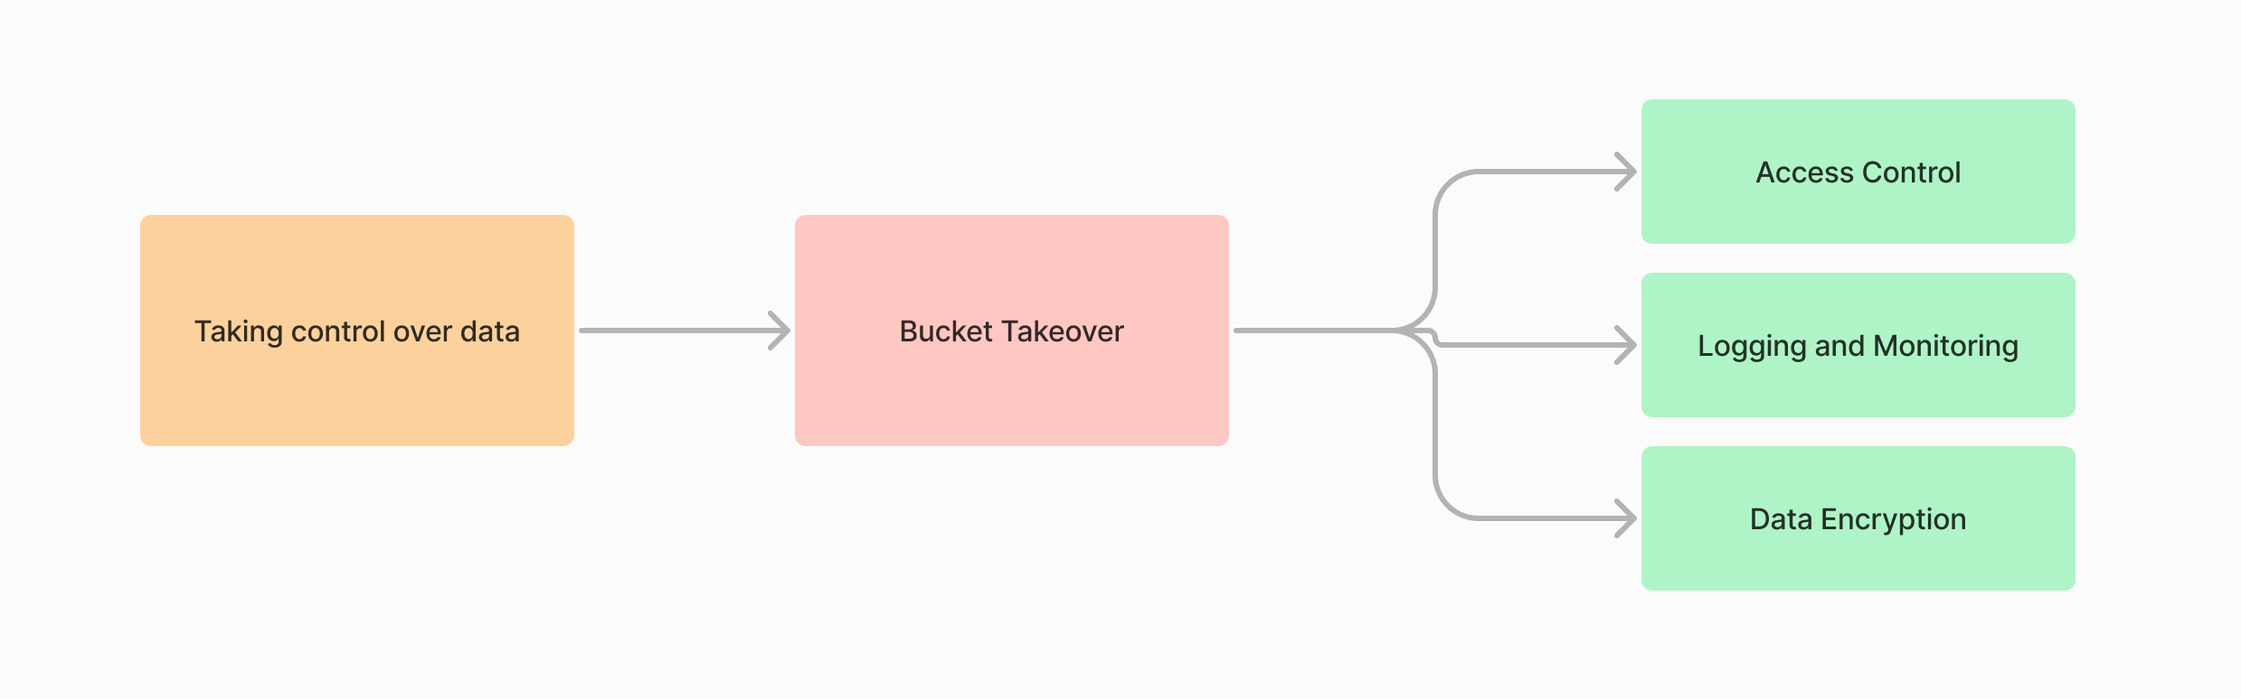
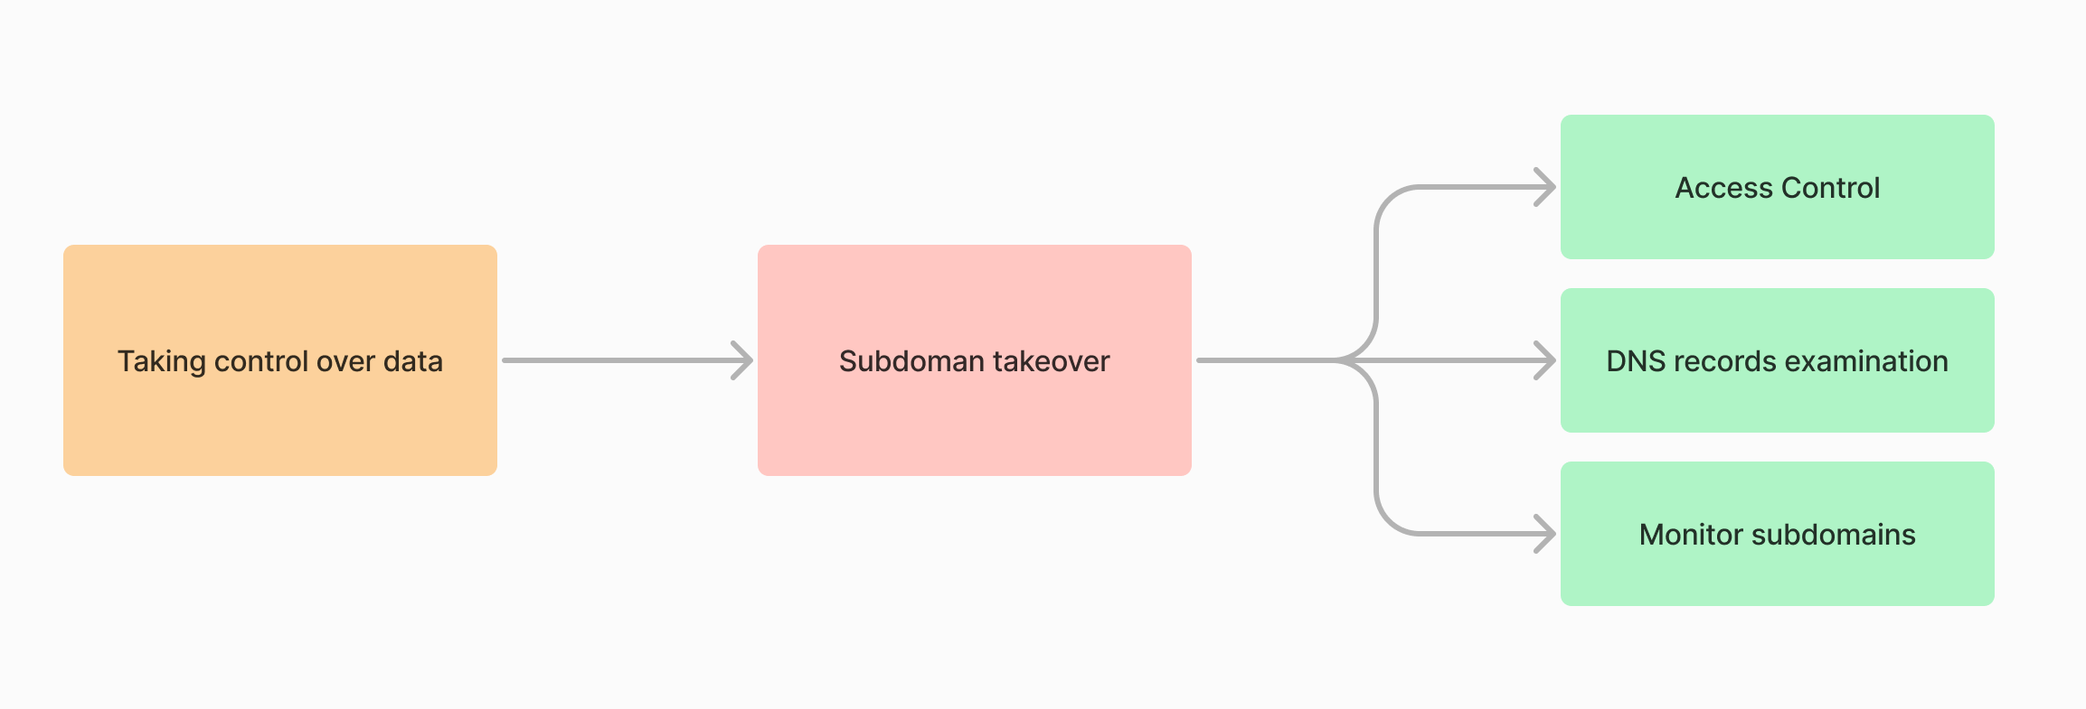
update

Changed region(s): [[0.0312, 0.124, 0.9675, 0.8682]]

diff --git a/documentation/amazon s3.md b/documentation/amazon s3.md
@@ -21,35 +21,35 @@ data.
 
 Bucket enumeration is a process of identifying misconfigured S3 buckets that are publicly accessible. This process can be used as a part of security analysis, or for malicious intent, to determine which objects are present within a given bucket. When an attacker successfully performs S3 bucket enumeration on misconfigured buckets, they can potentially gain access to various types of sensitive data depending on what is stored in those buckets.
 Several methods can be used for finding S3 buckets. 
-<br>
+
 The attacker will target a misconfigured bucket. Some of the ways to locate them are by using Google Dorks, AWS CLI tools, CLI tools from Github, and websites.
 
 #### Using Google Dorks to find S3 buckets
 Google Dorks are powerful search queries that allow you to find specific information on the internet. <br>
 Google Dorking, also known as Google hacking, can return information difficult to locate through simple search queries. This includes information not intended for public viewing, but that is inadequately protected and can, therefore, be "dorked" by a hacker.
-<br>
-You can use Google Dorks to discover S3 buckets associated with Amazon Web Services. Here are a couple of examples: <br>
 
-**site:http://amazonaws.com inurl:".s3.amazonaws.com/"**<br>
+You can use Google Dorks to discover S3 buckets associated with Amazon Web Services. Here are a couple of examples: 
+
+**site:http://amazonaws.com inurl:".s3.amazonaws.com/"**
 1. site:http://amazonaws.com: This part restricts the search to the domain "amazonaws.com." The site: operator is used to specify a particular domain or site where the search should be performed.
 2. inurl:".s3.amazonaws.com/": This part of the query focuses on the URL structure. The inurl: operator is used to search for a specific string within the URL. In this case, it looks for URLs containing ".s3.amazonaws.com/". The . before "s3" is used to ensure that it is a specific part of the URL and not just any occurrence of "s3."
 
-**site:http://s3.amazonaws.com intitle:index.of.bucket** <br>
+**site:http://s3.amazonaws.com intitle:index.of.bucket** 
 1. site:http://s3.amazonaws.com: This restricts the search to the specified site, in this case, http://s3.amazonaws.com. It specifies that the search should focus on Amazon S3 buckets hosted on the Amazon Web Services (AWS) S3 domain.
 2. intitle:index.of.bucket: This part of the query focuses on the title of the web pages. It's looking for pages that have the words "index" and "of" in the title and the word "bucket" in the content. This is a common pattern for the default index pages of open S3 buckets, which might expose the contents of the bucket.
 
 #### Using AWS CLI tools find S3 buckets
-After creating an AWS account and successfully installation and configuring AWS CLI, AWS CLI commands can be used to interact with S3 Buckets. <br>
-Some of the examples: <br>
+After creating an AWS account and successfully installation and configuring AWS CLI, AWS CLI commands can be used to interact with S3 Buckets. 
+Some of the examples:
 
 **List all Files in an S3 Bucket with AWS CLI** <br>
 To list all of the files of an S3 bucket with the AWS CLI, use the s3 ls command, passing in the --recursive parameter.
-
-**aws s3 ls s3://YOUR_BUCKET --recursive --human-readable --summarize**
-
+ ```
+    aws s3 ls s3://YOUR_BUCKET --recursive --human-readable --summarize
+ ```
 The output of the command will show the date the objects were created, their file size, and their path.
 
-<br>
+
 The parameters we passed to the s3 ls command are the following:
 
 1. **recursive**: performs the command on all files under the set prefix
@@ -58,52 +58,67 @@ The parameters we passed to the s3 ls command are the following:
 
 **List all Files in a Folder of an S3 Bucket**
 To list all files, located in a folder of an S3 bucket, use the s3 ls command, passing in the entire path to the folder and setting the --recursive parameter.
-
-**aws s3 ls s3://YOUR_BUCKET/YOUR_FOLDER/ --recursive --human-readable --summarize**
+ ```
+    aws s3 ls s3://YOUR_BUCKET/YOUR_FOLDER/ --recursive --human-readable --summarize
+```
 
 The output of the command only will show the files in the /my-folder-1 directory.
 
-<br>
+
 
 **List only the Filenames of an S3 Bucket**
-To only list the filenames of an S3 bucket, we have to: <br>
+To only list the filenames of an S3 bucket, we have to: 
 1. Use the s3api list-objects command.
 2. Set the --output parameter to text.
 3. Use the --query parameter to filter the output of the command.
-<br>
 
-**aws s3api list-objects --bucket YOUR_BUCKET --output text --query "Contents[].{Key: Key}"**
+ ```
+    aws s3api list-objects --bucket YOUR_BUCKET --output text --query "Contents[].{Key: Key}"
+```
 
 The output of the command will show all the filenames, or in other words, path names in the S3 bucket.
 
-<br>
 
 To list only the filenames in a specific folder, add the --prefix parameter to the command:
-
-**aws s3api list-objects --bucket YOUR_BUCKET --prefix "my-folder/" --output text --query "Contents[].{Key: Key}"**
-<br>
+ 
+ ```
+    aws s3api list-objects --bucket YOUR_BUCKET --prefix "my-folder/" --output text --query "Contents[].{Key: Key}"
+ ```
 Output to a file can be redirected to the local file system, using the command: <br>
 
-**aws s3api list-objects --bucket YOUR_BUCKET --prefix "my-folder-1/" --output text --query "Contents[].{Key: Key}" > file-names.txt**
+ ```
+    aws s3api list-objects --bucket YOUR_BUCKET --prefix "my-folder-1/" --output text --query "Contents[].{Key: Key}" > file-names.txt
+ ```
 
 #### Using CLI tools from GitHub to find S3 buckets
 GitHub hosts a range of online tools that aid in finding S3 buckets associated with a website. Some of the tools are Slurp, Bucket_finder, S3Scanner, Cloudlist, Lazy S3, Dumpster Diver, and many more. The main purpose of these tools is to find buckets, scan them, and dump their data. 
 
 #### S3Scanner
 S3Scanner uses a list of entries to digest. With this list, it will try to find available S3 buckets. Several formats can be used (bucket name, domain name, full S3 URL, or bucket:region).
-<br>
+
 
 **Examples**
-1. Scan AWS buckets listed in a file with 8 threads: **$ s3scanner --threads 8 scan --buckets-file ./bucket-names.txt**
-2. Scan a bucket in Digital Ocean Spaces: **$ s3scanner --endpoint-url https://sfo2.digitaloceanspaces.com scan --bucket my-bucket**
-3. Dump a single AWS bucket: **$ s3scanner dump --bucket my-bucket-to-dump**
-4. Scan a single Dreamhost Objects bucket that uses the host address style and an invalid SSL cert: **$ s3scanner --endpoint-url https://objects.dreamhost.com --endpoint-address-style host --insecure scan --bucket my-bucket**
+1. Scan AWS buckets listed in a file with 8 threads: 
+ ```
+    $ s3scanner --threads 8 scan --buckets-file ./bucket-names.txt
+ ```
+2. Scan a bucket in Digital Ocean Spaces: 
+ ```
+    $ s3scanner --endpoint-url https://sfo2.digitaloceanspaces.com scan --bucket my-bucket
+ ```
+3. Dump a single AWS bucket: 
+ ```
+    $ s3scanner dump --bucket my-bucket-to-dump
+ ```
+4. Scan a single Dreamhost Objects bucket that uses the host address style and an invalid SSL cert: 
+ ```
+    $ s3scanner --endpoint-url https://objects.dreamhost.com --endpoint-address-style host --insecure scan --bucket my-bucket
+```
 
 #### Finding S3 Buckets Using Websites
 Several websites offer services to discover open S3 buckets and other cloud storage repositories. One such website is: https://buckets.grayhatwarfare.com/results/colliershouston <br>
 By searching for an organization's name, you can filter and browse through the contents of their open S3 buckets.
 
-**
 
 ### Mitigates
 #### Limit Public Access: 
@@ -133,8 +148,10 @@ After attackers successfully target misconfigured S3 Buckets, data exfiltration 
 Some of the ways are described in the following.
 
 #### Misconfigured ACL
-If the bucket has misconfigured ACL(Access Control Lists) permissions, you can use this command to download data from an S3 bucket to your local system. <br>
-aws s3 sync s3://<bucket>/<path> </local/path>
+If the bucket has misconfigured ACL(Access Control Lists) permissions, you can use this command to download data from an S3 bucket to your local system. 
+ ```
+    aws s3 sync s3://<bucket>/<path> </local/path>
+ ```
 
 #### EC2 Metadata IP
 AWS provides instance metadata for EC2 instances via a private HTTP interface only accessible to the virtual server itself. While this does not have any significance from an external perspective, it can however be a valuable feature to leverage in SSRF-related attacks. The categories of metadata are exposed to all EC2 instances via the following URL: http://169.254.169.254/latest/meta-data/
@@ -154,44 +171,43 @@ A crafty attacker will bang on a web application long enough to find a vulnerabi
 #### Acces Control
 As mentioned in the previous attack, it is essential to pay attention to configurations such as setting up IAM user policies, S3 bucket policies, VPC (Virtual Private Cloud) endpoint policies, and SCPs (AWS Organizations Service Control Policies).  
 
-A majority of modern use cases in Amazon S3 no longer require the use of ACLs, and it is recommended to keep ACLs disabled except in unusual circumstances where it is needed to control access for each object individually. <br>
+A majority of modern use cases in Amazon S3 no longer require the use of ACLs, and it is recommended to keep ACLs disabled except in unusual circumstances where it is needed to control access for each object individually.
 With ACL disabled, it is recommended to use the policies mentioned above.
-<br>
 
 #### Keep buckets not publicly accessible
 
-Unless you explicitly require anyone on the internet to be able to read or write to your S3 bucket, make sure that your S3 bucket is not public. Some of the ways to block public access are: <br>
-**Use S3 Block Public Access** <br>
+Unless you explicitly require anyone on the internet to be able to read or write to your S3 bucket, make sure that your S3 bucket is not public. Some of the ways to block public access are:
+**Use S3 Block Public Access**
 This sets up centralized control to limit public access to S3 resources, regardless of how the resources are created.
-**Identify policies that allow wildcard identity and wildcard action**<br>
-Wildcard Identity (example: "Principal": "*") means that anyone can access resources. Also, Wildcard Action means that the user can perform any action with targeted resources. After identifying, those needs to be avoided by any cost, unless there is specific logic that requires those.<br>
-**Implementing ongoing detective controls** <br>
+**Identify policies that allow wildcard identity and wildcard action**
+Wildcard Identity (example: "Principal": "*") means that anyone can access resources. Also, Wildcard Action means that the user can perform any action with targeted resources. After identifying, those needs to be avoided by any cost, unless there is specific logic that requires those.
+**Implementing ongoing detective controls** 
 Consider implementing ongoing detective controls by using the s3-bucket-public-read-prohibited and s3-bucket-public-write-prohibited managed AWS Config Rules.
-<br>
+
 Also, it is important to use tools, such as AWS Trusted Advisor, to inspect Amazon S3 implementation.
 
 #### Implement least privilege access
-It is recommended to grant only permissions that are required to perform a task. Implementing least-privilege access is fundamental in reducing security risk and the impact that could result from errors or malicious intent. <br>
+It is recommended to grant only permissions that are required to perform a task. Implementing least-privilege access is fundamental in reducing security risk and the impact that could result from errors or malicious intent.
 Amazon S3 actions and Permissions Boundaries for IAM Entities, 
 Bucket policies and user policies, Access control list (ACL) overview, and Service Control Policies are tools for implementing least privilege access.
 
 #### IAM roles
 Its recommended to avoid storing AWS credentials directly in the application or Amazon EC2 instance. These are long-term credentials that are not automatically rotated and could have a significant business impact if they are compromised. 
-<br>
+
 Instead, use an IAM role to manage temporary credentials for applications or services that need to access Amazon S3.
-<br>
+
 When you use a role, you don't have to distribute long-term credentials (such as a username and password or access keys) to an Amazon EC2 instance or AWS service, such as AWS Lambda. The role supplies temporary permissions that applications can use when they make calls to other AWS resources.
 
 #### Encrypt Sensitive Data
-For protecting data at rest, and reducing the risk of unauthorized access to sensitive data can be used server-side encryption, as mentioned earlier. <br>
-**Server-side encryption** with Amazon S3 managed keys (SSE-S3) is the default encryption configuration for every bucket in Amazon S3. To use a different type of encryption, you can either specify the type of server-side encryption to use in your S3 PUT requests, or you can set the default encryption configuration in the destination bucket. Server-side encryption options that Amazon S3 provides are Server-side encryption with AWS Key Management Service (AWS KMS) keys (SSE-KMS), Dual-layer server-side encryption with AWS Key Management Service (AWS KMS) keys (DSSE-KMS), Server-side encryption with customer-provided keys (SSE-C). <br>
+For protecting data at rest, and reducing the risk of unauthorized access to sensitive data can be used server-side encryption, as mentioned earlier.
+**Server-side encryption** with Amazon S3 managed keys (SSE-S3) is the default encryption configuration for every bucket in Amazon S3. To use a different type of encryption, you can either specify the type of server-side encryption to use in your S3 PUT requests, or you can set the default encryption configuration in the destination bucket. Server-side encryption options that Amazon S3 provides are Server-side encryption with AWS Key Management Service (AWS KMS) keys (SSE-KMS), Dual-layer server-side encryption with AWS Key Management Service (AWS KMS) keys (DSSE-KMS), Server-side encryption with customer-provided keys (SSE-C). 
 **Client-side encryption** needs a developer to manage the encryption process, the encryption keys, and related tools. manage the encryption process, the encryption keys, and related tools. There are many Amazon S3 client-side encryption options.
 
 ####  Encryption of data in transit
 HTTPS (TLS) is recommended to use, to help prevent potential attackers' encryption of data in transit. It is recommended to allow only encrypted connections over HTTPS (TLS) by using the was: SecureTransport condition in your Amazon S3 bucket policies.
 
 #### "Write Once Read Many" model
-With S3 Object Lock, you can store objects by using a WORM model. S3 Object Lock can help prevent accidental or inappropriate deletion of data. <br>
+With S3 Object Lock, you can store objects by using a WORM model. S3 Object Lock can help prevent accidental or inappropriate deletion of data.
 S3 Object Lock can be used to help protect your AWS CloudTrail logs.
 
 #### Enable Logging and Monitoring
@@ -207,27 +223,53 @@ The attacker has the ability to access, manipulate data, and take control of the
 ![image](/documentation/images/T2.png)
 
 ## Attacks
-### Bucket Takeover
-Bucket Takeover allows access to private storage and data inside it, and takes full control of the content within the bucket.
 
-After identifying misconfigured S3 buckets, often achieved through Bucket Enumeration attackers can now search for configuration settings and security measures implemented on the identified bucket, including IAM and bucket policies. If the attacker can exploit found vulnerabilities and gain unauthorized access to the bucket. If vulnerabilities are found, the attacker can exploit them to gain unauthorized access.
-Upon successful unauthorized access, the attacker now has the ability to manipulate the bucket's configuration. This includes making changes to IAM roles, policies, and other settings. With this, the attacker can effectively take control of the compromised S3 bucket.
-Compromised buckets can further be used in other malicious activities including Exfiltration, Phishing, and supply chain attacks, also attackers are now able to upload a malicious file into the bucket that can trigger malware or ransomware across the network. 
+### Subdoman takeover - Bucket takeover
+Sub domain Takeover attack is when an attacker is able to gain control of a company’s subdomain hosted on a cloud service such as AWS, github etc. because of the DNS entries pointing to that service is not being removed. This allows attacker to set up a phishing page on that sub-domain or serve malicious content.
 
-### Mitigates
-#### Acces Control:
-- As mentioned in the previous attacks, access control is essential when configuring an S3 bucket. 
+Subdomain takeover in amazon s3: Each bucket pointing to a specific domain or subdomain. So sometimes, when s3 buckets is no longer in use customer delete them from their account, but forgets to remove the DNS entry pointing to that subdomain it may escalate to a subdomain takeover because amazon allow non existing bucket names to be claimed again on any other account.
 
-#### Encrypt Sensitive Data:
-- Using server-side encryption. Server-side encryption can help reduce risk to your data by encrypting the data with a key that is stored in a different mechanism than the mechanism that stores the data itself.
-- Using Client-side encryption – In this case, you manage the encryption process, the encryption keys, and related tools. This can additionally help reduce risk to data.
+Since Amazon S3 buckets’ contents can be retrieved over HTTP, they can be used to store and serve static assets such as images, videos, stylesheets, user upload content, or complete static websites. An S3 bucket is accessed by, for example URL our.company.com.s3-website.ap-south-1.amazonaws.com”. Organizations tend to create custom subdomains like “our.company.com”. Custom subdomains are created by adding DNS CNAME record like the one below:
 
-#### Enable Logging and Monitoring: 
-- Analyzing CloudTrail logs for changes to bucket configurations, unauthorized object copies, and tracking user activities can help in identifying potential takeover attempts, allowing for timely intervention, access revocation, and mitigation of security risks.
+Type	    Name Content	                                    TTL	
+CNAME blog	our.company.com.s3-website-us-east-1.amazonaws.com	3000
+
+Later when this bucket is deleted from AWS S3, we still have the DNS record pointing to the bucket URL: since it wasn’t removed, it now points to a bucket that doesn’t exist anymore.In such a case, pointing the browser to blog.char49.com would return a page like the one below:
+![Alt text](/documentation/images/bucketNotFound.png)
+What if someone else creates a new bucket with the same name? Then, that person will be in control of what content is served by our subdomain, thus we’re victims of subdomain takeover. 
+
+**Attack scenario**
+
+During enumeration, attacker can find multiple subdomains one of them is ‘our.company.com’. When attacker tries to access this domain using the browser, the URL raises a ‘404 NOT FOUND’, with some additional information like shown in previous image.
+Since this error message indicates that there is no S3 bucket. Elliot can reuse/reclaim this bucket with folowing command:
+ ```
+    aws s3api create-bucket -bucket our.company.com -region eu-west-2 -create-bucket-configuration LocationConstraint=eu-west-2
+ ```
+ After creation, he applied a policy to the bucket which will allow him to serve static content from this.
+ ```
+    aws s3api put-bucket-policy — bucket assets.ecorp.net -policy file://malicious_policy.json
+ ```
+
+ Now the takeover bucket is up and ready to use, attacker can decide to showcase the harm it can do to the organization. So he uploads a fake login page that resembles Our Organization.
+```
+    aws s3 sync ./static/ s3://our.company.com
+    Note: /static is the local directory that consists of the malicious login page.
+    aws s3 website s3://our.company.net/ — index-document index.html — error-document index.html
+```
+Now when someone acces login page, this webpage is being served from our domain name. Since attacker now controls the S3 bucket he can further perform several malicious attacks such as: Hosting Phishing websites, Hosting Malware, Bypassing CSP policies, Stealing Cookie’s, Man-in-the-browser attacks.
 
 
-### Additional Mitigation - Use of AWS Trusted Advisor:
-- Use AWS Trusted Advisor, which offers automated recommendations for securing resources like S3 buckets.
+## Mitigates
+
+#### Acces Controll:
+- As mentioned in the previous attacks, it is always essential to pay attention to configurations such as setting up IAM user policies and S3 bucket policies, and implement principle of Least-Privilege.
+
+#### DNS records examination:
+- It is my recommendation that developers or IT engineers examine their organization’s DNS records every time there is a termination of a S3 bucket. This will ensure there are no DNS/CNAME entries that point to non-existent S3 buckets which could potentially be exploited.
+
+#### Monitor subdomains:
+- Regularly monitor subdomains to ensure taht they are pointing to the correct S3 bucket.
+
 
 
 
@@ -387,3 +429,5 @@ The next screenshot shows what happens when the object owner uses a pre-signed U
 13. [S3 Ransomware: Attack Vector](https://rhinosecuritylabs.com/aws/s3-ransomware-part-1-attack-vector/)
 14. Misconfigurations Leading to AWS S3 Ransomware Exposure: Hard Facts and Mitigation Techniques 
 15. [Ransomware in the Cloud: Breaking Down The Attack Vectors](https://www.dig.security/post/understand-ransomware-to-protect-your-data-in-the-cloud)
+16. [Subdomain Takeover via Abandoned Amazon S3 Bucket](https://char49.com/articles/subdomain-takeover-via-abandoned-amazon-s3-bucket)
+17. [Sub-Domain Take Over — AWS S3 Bucket](https://towardsaws.com/subdomain-takeover-aws-s3-bucket-4699815d1b62)

diff --git a/README.md b/README.md
@@ -11,9 +11,9 @@ The research analyzes threats and risks in the use of Cloud technologies. The ai
 ## Project goal
 This research aims to explore and understand the architecture of the Cloud and its individual components.
 
-It is crucial to identify and analyze the security vulnerabilities of this system. By decomposing the entire system and considering its components, we need to identify key areas that could be potential targets for attacks. Some of the areas research will focus on API security and API gateway [[1]](https://www.akamai.com/glossary/what-are-api-security-risks), Database and Storage management [[2]](https://socradar.io/aws-s3-bucket-takeover-vulnerability-risks-consequences-and-detection/), identity providers [[3]](https://sonraisecurity.com/blog/9-common-iam-risks-how-to-mitigate-them/). Besides this, the interesting part of the research will be to analyze application activity and access logging. 
+It is crucial to identify and analyze the security vulnerabilities of this system. By decomposing the entire system and considering its components, we need to identify key areas that could be potential targets for attacks. Some of the areas research will focus on API security and API gateway [[1]](https://www.akamai.com/glossary/what-are-api-security-risks) and Storage management [[2]](https://socradar.io/aws-s3-bucket-takeover-vulnerability-risks-consequences-and-detection/). 
 
-![image](https://github.com/cojic/CloudSecurityResearch/assets/102799668/cf835d7b-510c-4f0b-bdec-7b5e94d91803)
+![Alt text](/documentation/images/keyPoints.png)
 
 By creating a threat model, we aim to illustrate possible attacks and the strategies that attackers may employ and to propose protection strategies to mitigate or eliminate potential attacks.
 
@@ -24,8 +24,6 @@ By creating a threat model, we aim to illustrate possible attacks and the strate
   The document provides an overview of the threats and attacks for Amazon S3.
 * ### [APIs Threat Model](documentation/apis.md)
 The document provides an overview  of the threats and attacks for APIs. 
-* ### [MySQL Threat Model](documentation/mysql.md)
-  The document provides an overview  of the threats and attacks for MySQL Database.
 
 ## Literature
 1. [What Are API Security Risks?](https://www.akamai.com/glossary/what-are-api-security-risks)
